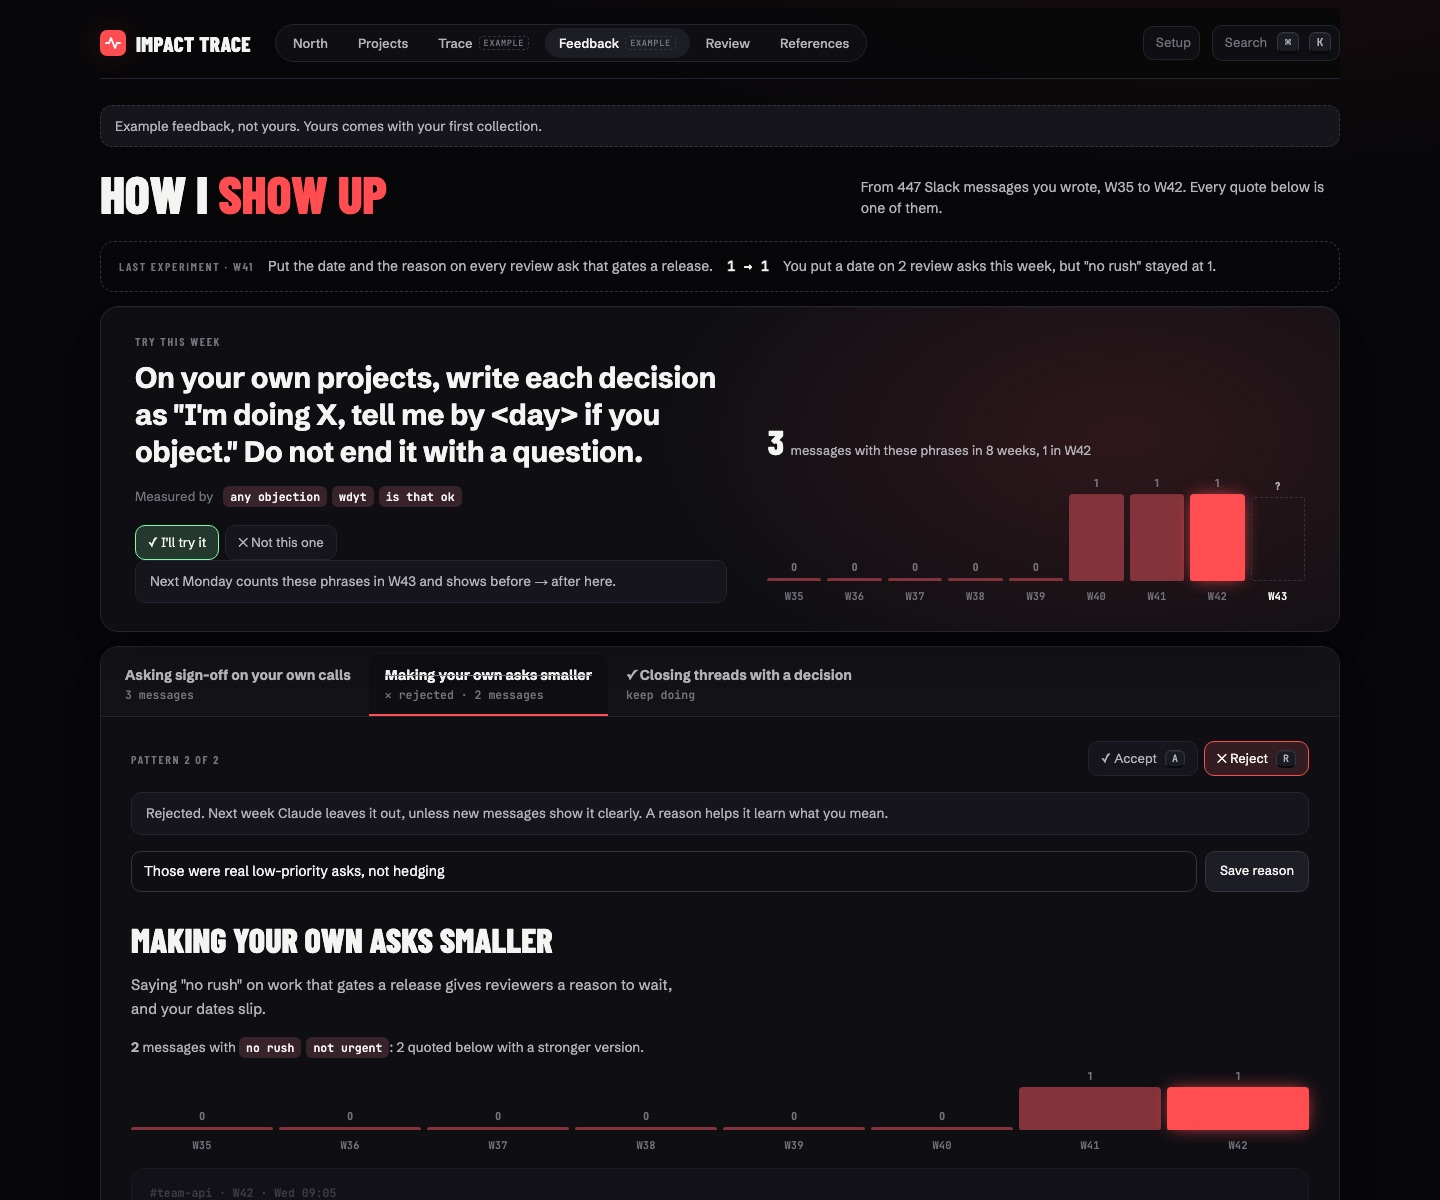
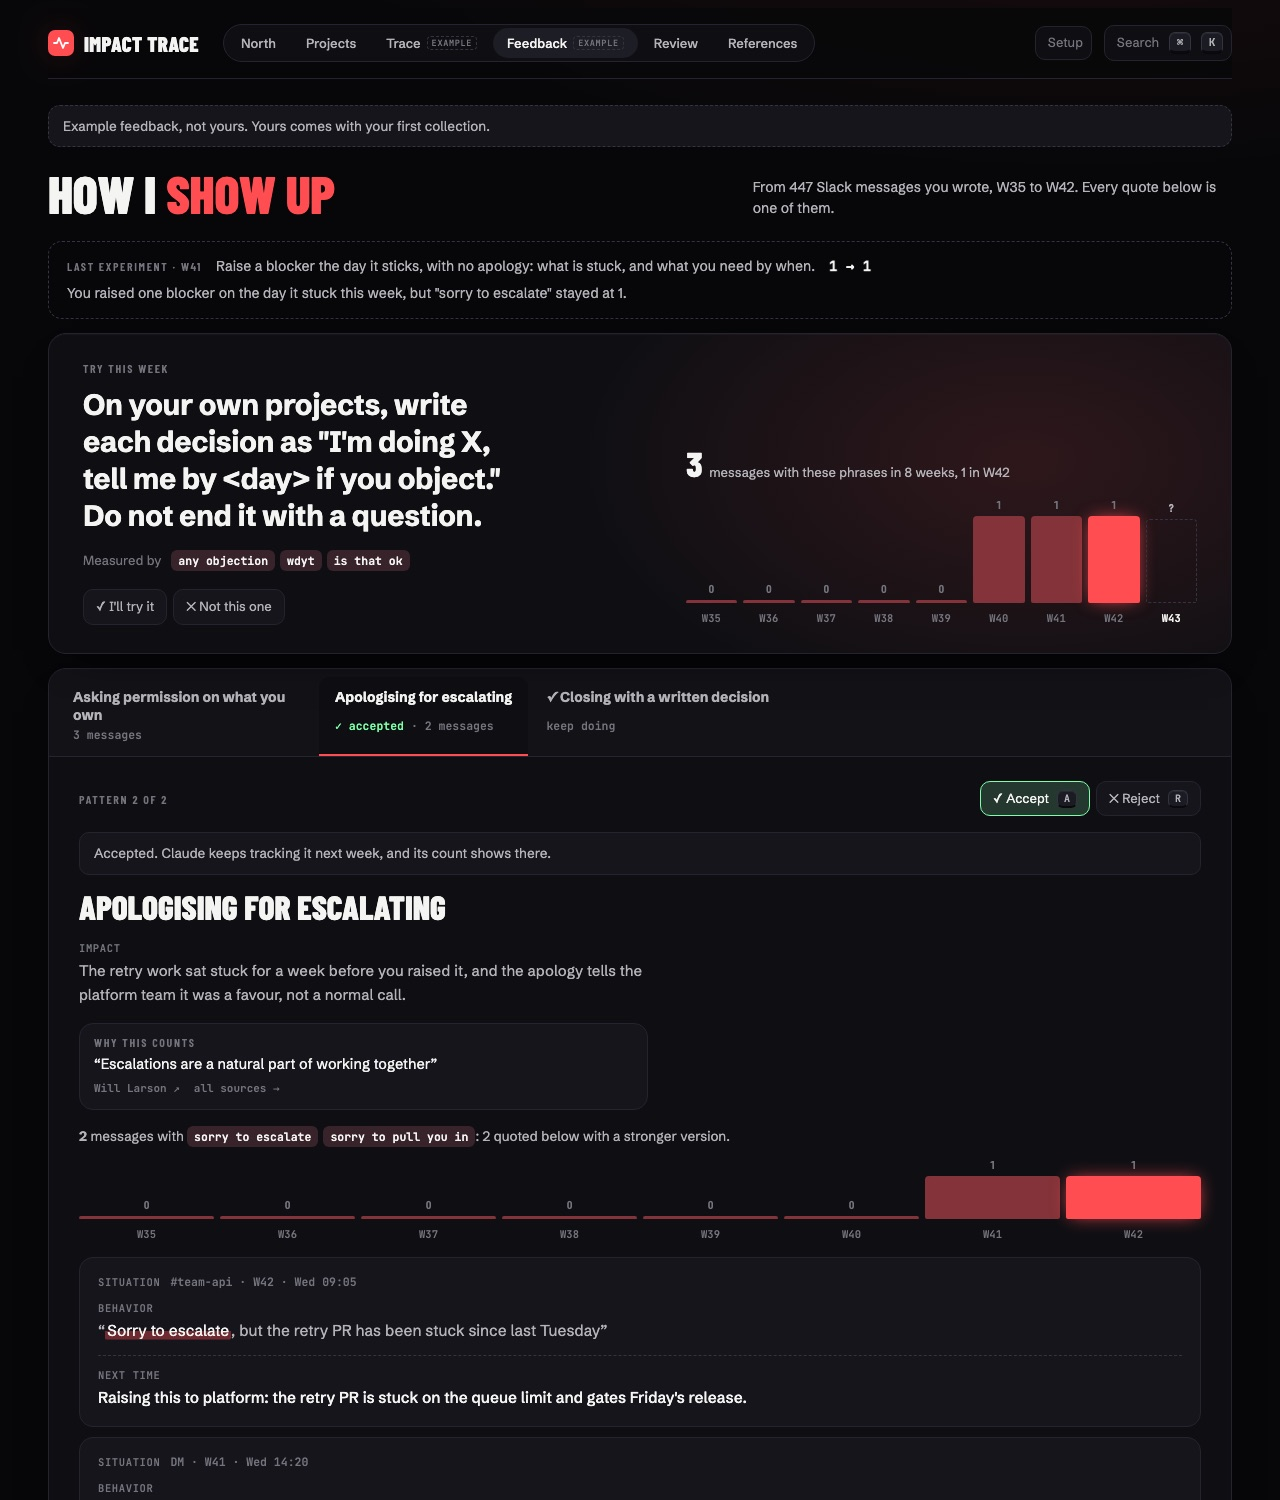
docs: feedback captures with sources, sample on catalog categories

diff --git a/app/sample-data.js b/app/sample-data.js
@@ -53,18 +53,18 @@ const PHASES = [
 const FEEDBACK = [{
   week:"2026-W42", weeks:["2026-W35","2026-W36","2026-W37","2026-W38","2026-W39","2026-W40","2026-W41","2026-W42"], messages:[48,61,55,40,52,70,58,63],
   patterns:[
-    {name:"Asking sign-off on your own calls", why:"You own exports. Ending a plan with a question hands the decision to someone else, and the plan reads like a draft.",
+    {category:"permission", name:"Asking permission on what you own", why:"You own exports. Ending a plan with a question hands the decision to someone else, and the plan reads like a draft.",
      markers:["any objection","wdyt","is that ok"], trend:[0,0,0,0,0,1,1,1], matches:[
       {text:"Thinking we move the sync to Tuesdays, is that ok with everyone?", week:"2026-W40", at:"2026-10-01T11:15:00", channel:"#team-api", url:null}], evidence:[
       {quote:"I'm thinking of dropping the v1 endpoint next sprint, any objection?", instead:"I'm dropping the v1 endpoint next sprint; tell me by Thursday if that breaks you.", week:"2026-W42", at:"2026-10-13T10:12:00", channel:"#project-exports", url:null},
       {quote:"Plan is to cut the release Friday, wdyt?", instead:"We cut the release Friday.", week:"2026-W41", at:"2026-10-07T16:40:00", channel:"#team-api", url:null}]},
-    {name:"Making your own asks smaller", why:"Saying \"no rush\" on work that gates a release gives reviewers a reason to wait, and your dates slip.",
-     markers:["no rush","not urgent"], trend:[0,0,0,0,0,0,1,1], matches:[], evidence:[
-      {quote:"No rush, but could someone look at the retry PR", instead:"The retry PR gates Friday's release; I need a review by Wednesday.", week:"2026-W42", at:"2026-10-14T09:05:00", channel:"#team-api", url:null},
-      {quote:"not urgent at all", instead:"This blocks the Terraform resource, please review it this week.", week:"2026-W41", at:"2026-10-07T14:20:00", channel:"DM", url:null}]}],
-  strength:{name:"Closing threads with a decision", why:"When a discussion stalls you write the decision and the reason, and the thread ends.", evidence:[
+    {category:"late-escalation", name:"Apologising for escalating", why:"The retry work sat stuck for a week before you raised it, and the apology tells the platform team it was a favour, not a normal call.",
+     markers:["sorry to escalate","sorry to pull you in"], trend:[0,0,0,0,0,0,1,1], matches:[], evidence:[
+      {quote:"Sorry to escalate, but the retry PR has been stuck since last Tuesday", instead:"Raising this to platform: the retry PR is stuck on the queue limit and gates Friday's release.", week:"2026-W42", at:"2026-10-14T09:05:00", channel:"#team-api", url:null},
+      {quote:"sorry to pull you in on this one", instead:"Pulling you in: we need a call on the export quota by Thursday.", week:"2026-W41", at:"2026-10-07T14:20:00", channel:"DM", url:null}]}],
+  strength:{category:"closing", name:"Closing with a written decision", why:"When a discussion stalls you write the decision and the reason, and the thread ends.", evidence:[
     {quote:"Decision: soft delete stays behind the flag until the restore path ships.", week:"2026-W42", at:"2026-10-15T11:30:00", channel:"#project-exports", url:null}]},
-  experiment:{pattern:"Asking sign-off on your own calls", do:"On your own projects, write each decision as \"I'm doing X, tell me by <day> if you object.\" Do not end it with a question.", markers:["any objection","wdyt","is that ok"], trend:[0,0,0,0,0,1,1,1]},
-  last_experiment:"You put a date on 2 review asks this week, but \"no rush\" stayed at 1.",
-  previous:{week:"2026-W41", pattern:"Making your own asks smaller", do:"Put the date and the reason on every review ask that gates a release.", markers:["no rush","not urgent"], before:1, after:1},
+  experiment:{pattern:"Asking permission on what you own", do:"On your own projects, write each decision as \"I'm doing X, tell me by <day> if you object.\" Do not end it with a question.", markers:["any objection","wdyt","is that ok"], trend:[0,0,0,0,0,1,1,1]},
+  last_experiment:"You raised one blocker on the day it stuck this week, but \"sorry to escalate\" stayed at 1.",
+  previous:{week:"2026-W41", pattern:"Apologising for escalating", do:"Raise a blocker the day it sticks, with no apology: what is stuck, and what you need by when.", markers:["sorry to escalate","sorry to pull you in"], before:1, after:1},
 }];

diff --git a/README.md b/README.md
@@ -18,6 +18,10 @@ ends. The code drops any quote it cannot find in your messages and makes every c
 one experiment it proposes is measured the next week. Accept or reject each piece, with a reason if you want:
 the next run reads your verdicts and does not repeat what you rejected.
 
+Claude may only flag the categories in `ingest/feedback-categories.json`. Each one has a source
+(Reilly, Larson, Marquet, research on hedges), shown on its card as "Why this counts". Cards
+follow SBI (Situation, Behavior, Impact) and end with what to say next time.
+
 `data/` holds your work data and `config.json`. It is git-ignored and must never be pushed.
 
 ## Before you start
